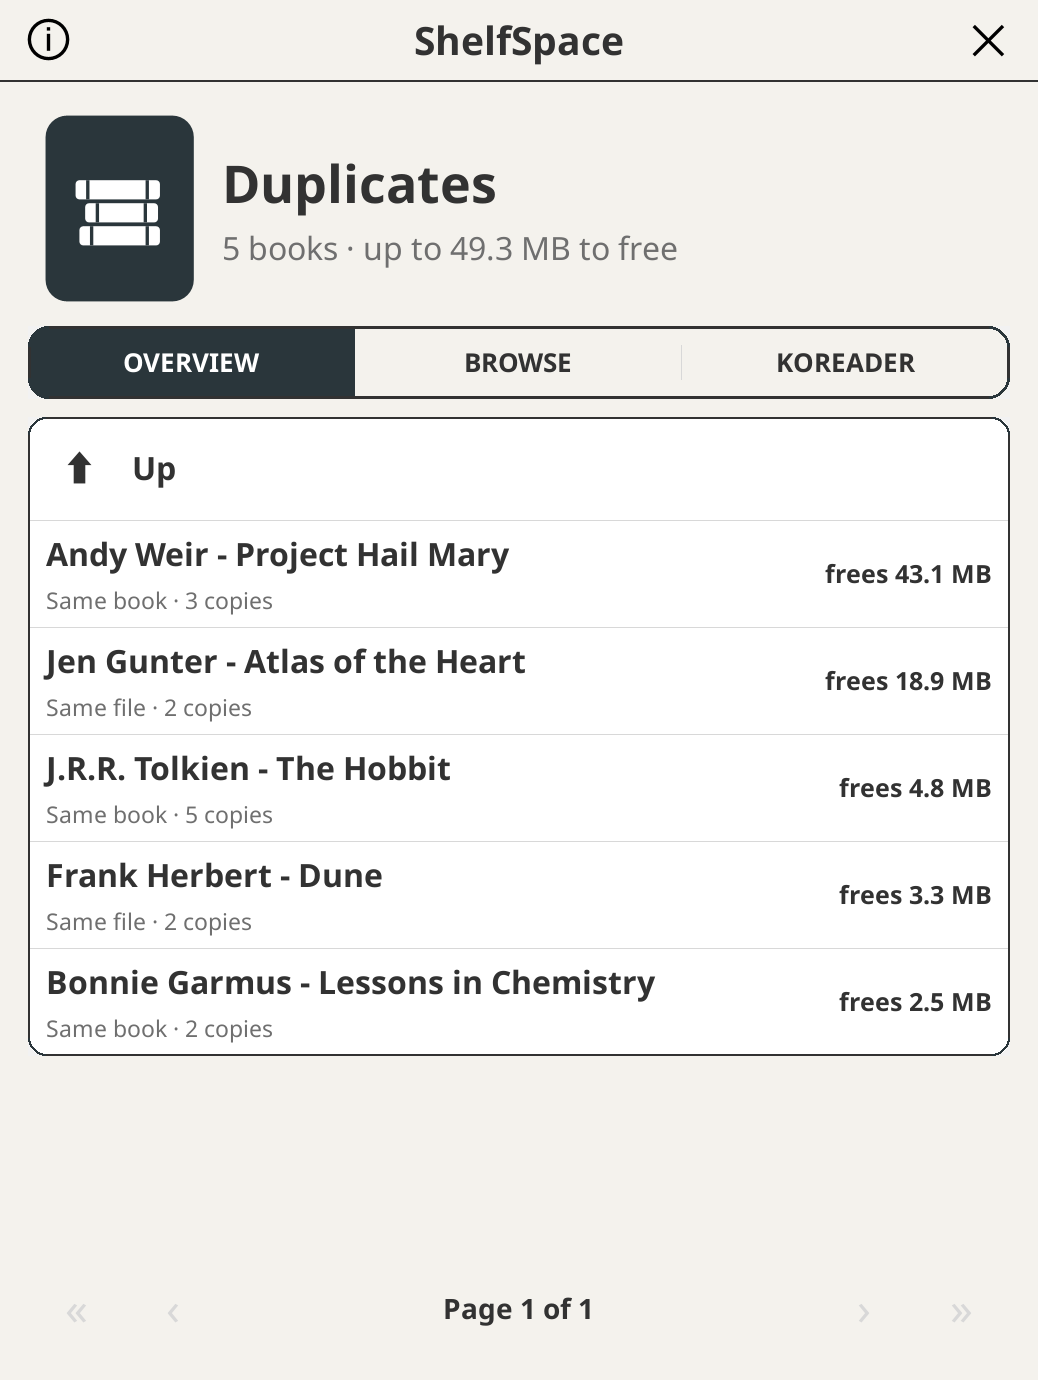
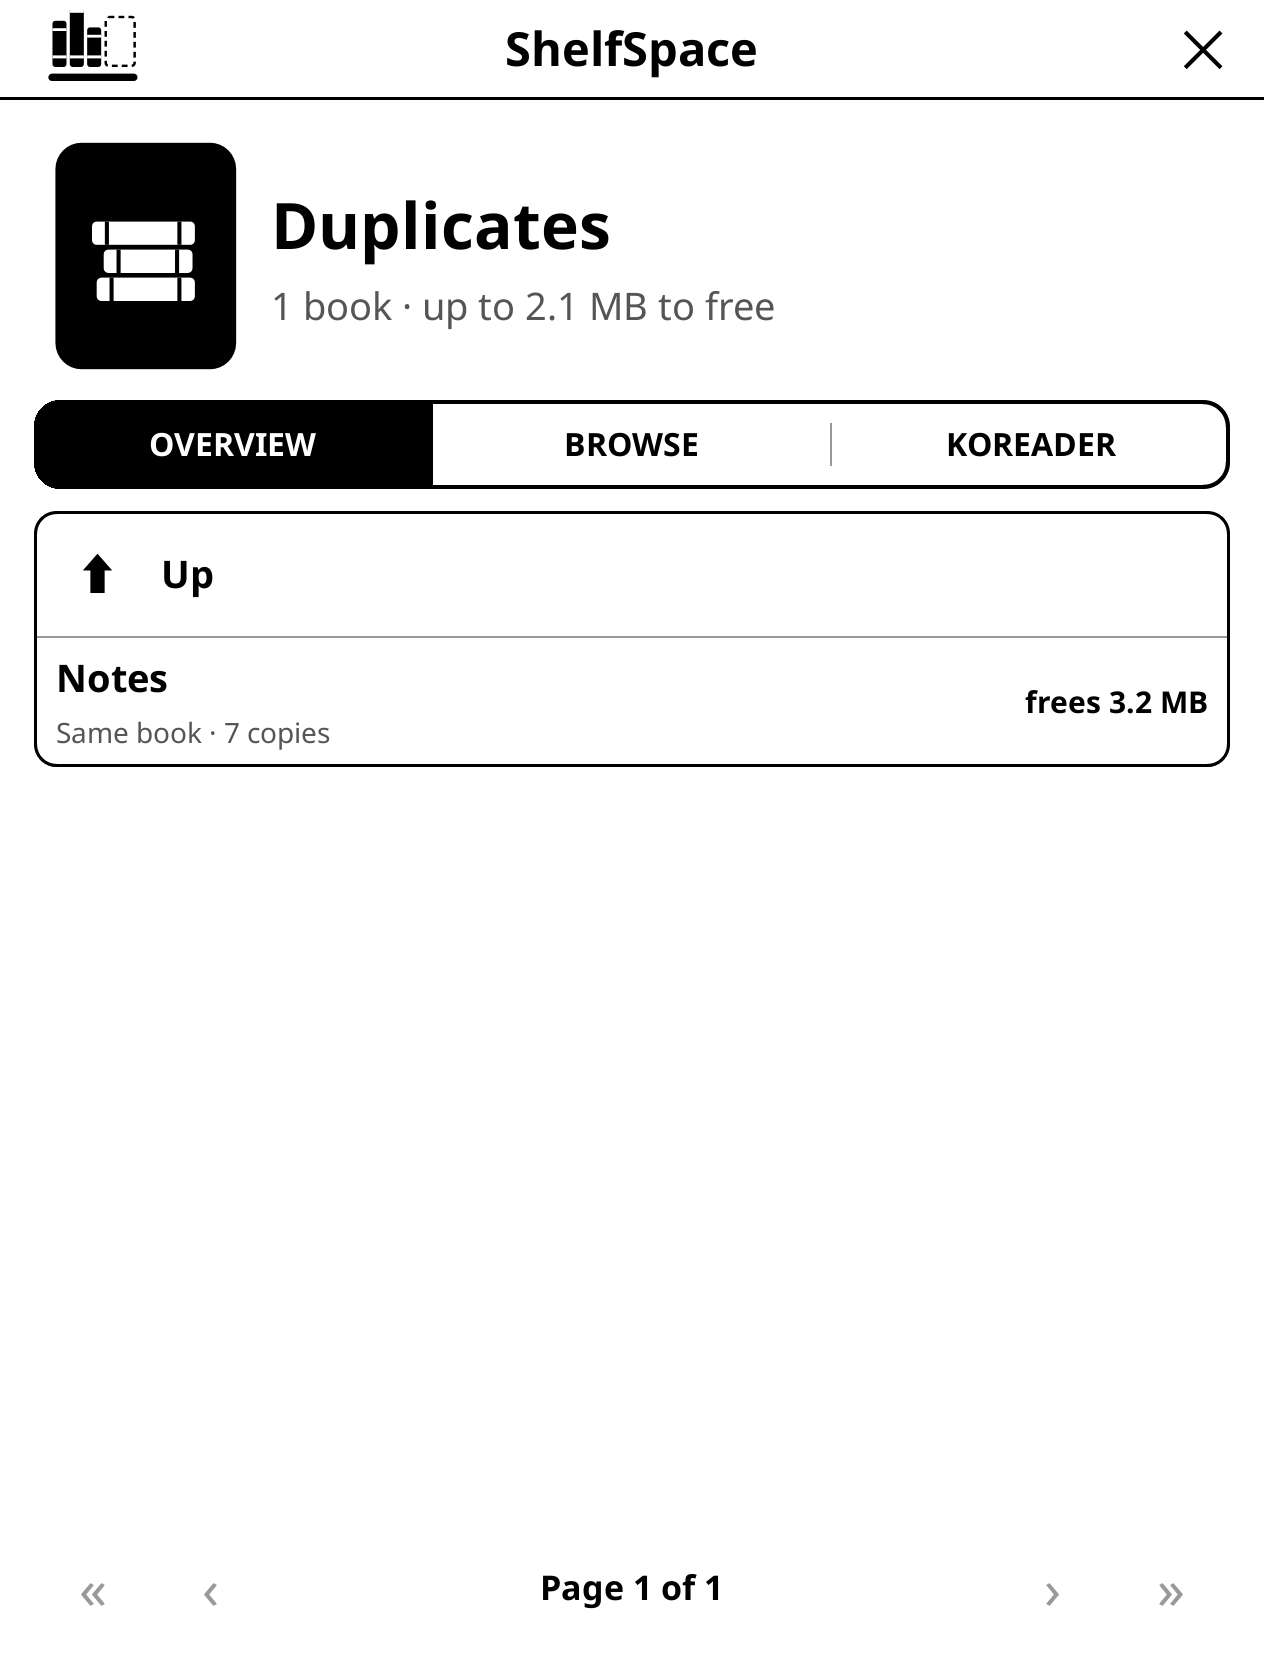
docs: retake the README screenshots in the new black and white, and show the menu, changelog and About

diff --git a/README.md b/README.md
@@ -26,21 +26,22 @@ desktop emulator, on a Kobo Libra Colour, on a Kindle Paperwhite 6 and on Androi
 | --- | --- | --- |
 | <img src="assets/delete.png" width="260"> | <img src="assets/koreader.png" width="260"> | <img src="assets/clear-several.png" width="260"> |
 
-| Show menu | Finished books |
-| --- | --- |
-| <img src="assets/show-menu.png" width="260"> | <img src="assets/finished.png" width="260"> |
-
-| Duplicates row | Sets of copies | Compare and choose |
+| Show menu | Finished books | ShelfSpace menu |
 | --- | --- | --- |
-| <img src="assets/duplicates-overview.png" width="260"> | <img src="assets/duplicates-list.png" width="260"> | <img src="assets/duplicates-compare.png" width="260"> |
+| <img src="assets/show-menu.png" width="260"> | <img src="assets/finished.png" width="260"> | <img src="assets/menu.png" width="260"> |
 
-| Confirm | Kept on purpose |
-| --- | --- |
-| <img src="assets/duplicates-confirm.png" width="260"> | <img src="assets/duplicates-kept.png" width="260"> |
+| Sets of copies | Compare and choose | Confirm |
+| --- | --- | --- |
+| <img src="assets/duplicates-list.png" width="260"> | <img src="assets/duplicates-compare.png" width="260"> | <img src="assets/duplicates-confirm.png" width="260"> |
+
+| Kept on purpose | Changelog | About |
+| --- | --- | --- |
+| <img src="assets/duplicates-kept.png" width="260"> | <img src="assets/changelog.png" width="260"> | <img src="assets/about.png" width="260"> |
 
 Taken in the KOReader desktop emulator at Kobo Libra Colour proportions, so the
-totals are a Mac's. Colour shows on Kaleido screens such as the Libra Colour;
-other screens get a grayscale version of the same layout.
+totals are a Mac's. ShelfSpace is plain black and white with grays, like KOReader
+itself; the one colour is a green for free space, which shows on colour screens
+such as the Libra Colour.
 
 ## What it does
 
